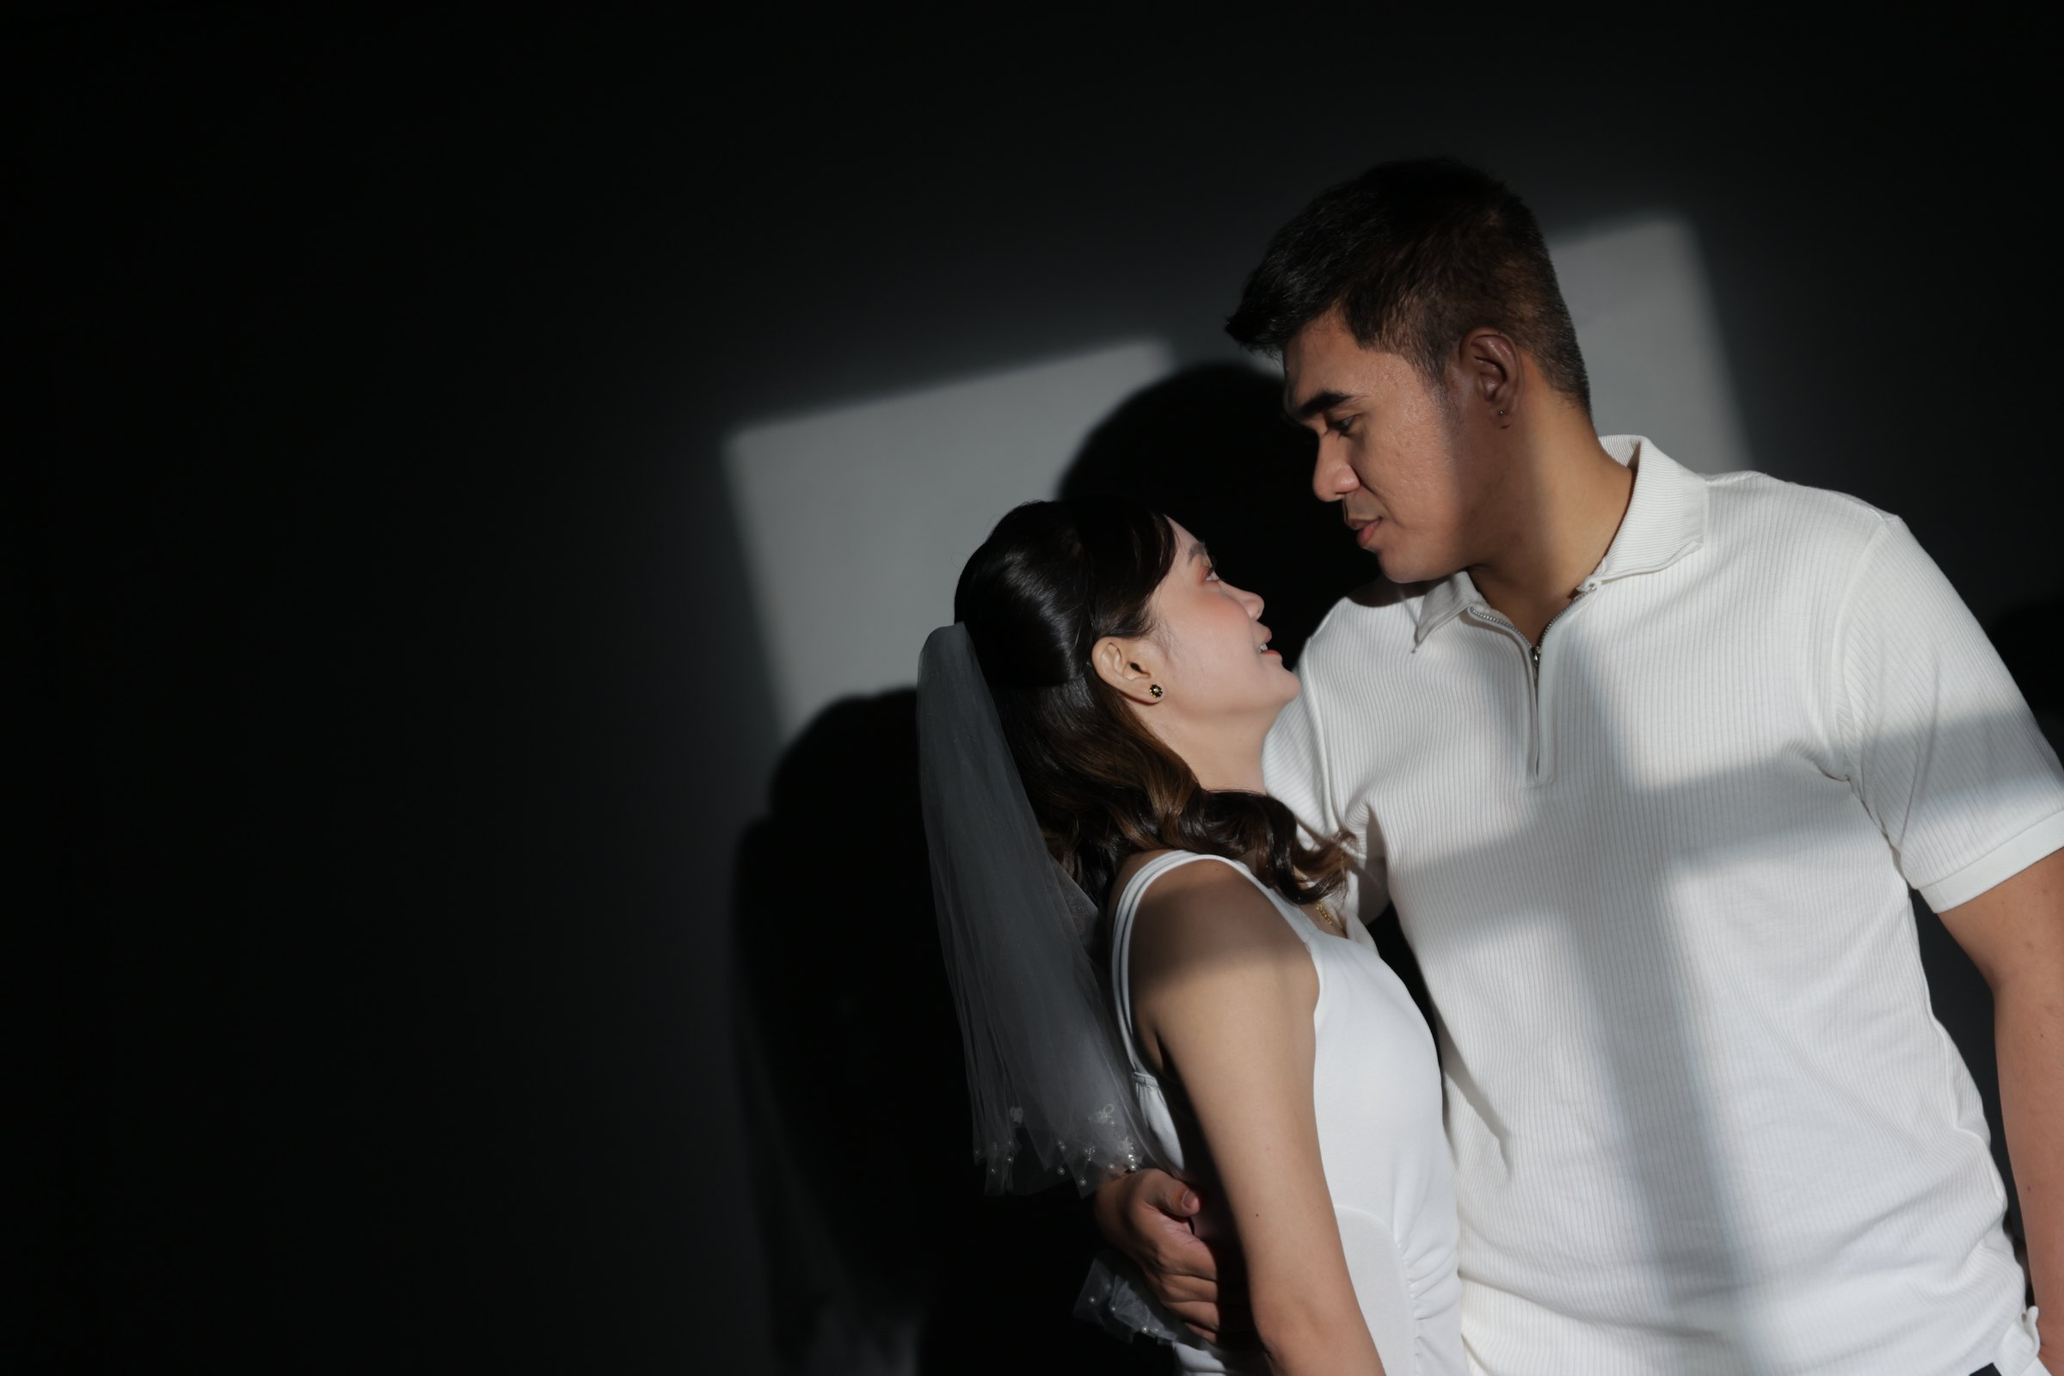
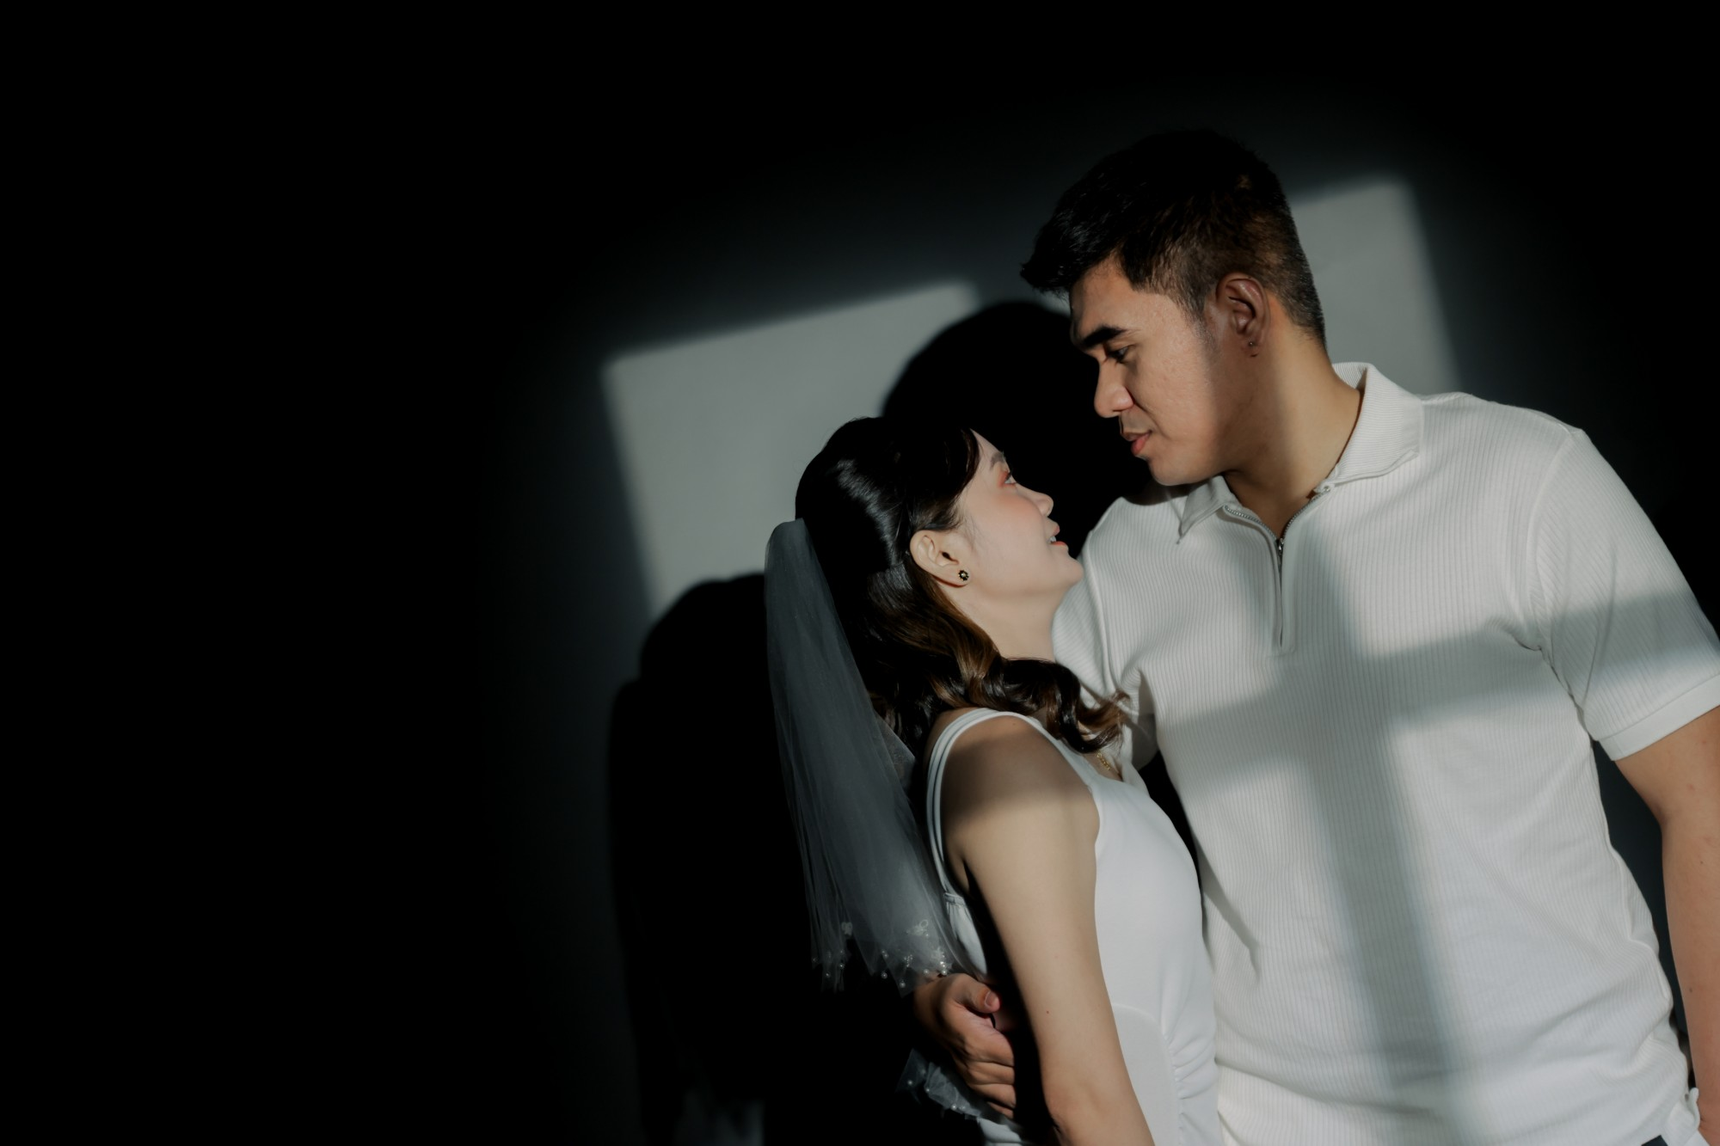
Add pre-wedding gallery, update hero, and sync invitation details
- Add 13 pre-wedding still photos to gallery section (3-column masonry)
- Replace hero.jpg with final edited couple photo
- Update principal sponsors: Fernando T. Concepcion & Adelaida L. Del Mundo
  replace Jap/Adele Concepcion; Fleurdeliza Dones replaces Liezel Dones;
  add Mrs. Cynthia Concepcion Naoe as 13th sponsor
- Update bridesmaids: Christine Lunzaga → Christine Lunzaga Gonzales
- Update ceremony time throughout: 2:30 PM → 3:30 PM
  (running order, ceremony section, RSVP ticket, FAQ, calendar link, iso timestamp)
- Update RSVP deadline: November 30 → November 28, 2026

diff --git a/index.html b/index.html
@@ -216,7 +216,7 @@
   <section id="date" data-c style="position:relative;overflow:hidden;padding:clamp(90px,14vw,170px) clamp(20px,5vw,72px);background:#070102">
     <div aria-hidden="true" style="position:absolute;left:0;top:50%;white-space:nowrap;font-family:'Bodoni Moda',serif;font-style:italic;font-size:clamp(160px,30vw,460px);line-height:1;color:transparent;-webkit-text-stroke:1px rgba(192,130,144,0.22);transform:translate3d(calc(var(--c,0) * 34vw - 10vw),-50%,0);pointer-events:none">09.01.27</div>
     <div style="position:relative;max-width:1200px;margin:0 auto">
-      <p style="margin:0 0 20px;font-size:11px;letter-spacing:0.4em;text-transform:uppercase;color:#C08290">Opening night · Barasoain Church · 2:30 PM</p>
+      <p style="margin:0 0 20px;font-size:11px;letter-spacing:0.4em;text-transform:uppercase;color:#C08290">Opening night · Barasoain Church · 3:30 PM</p>
       <h2 style="margin:0;max-width:14ch;font-family:'Bodoni Moda',serif;font-weight:400;font-size:clamp(40px,6.4vw,96px);line-height:0.98">Until we say <span style="font-style:italic;color:#E5B7C2">I do</span></h2>
       <div id="count-grid" style="margin-top:clamp(44px,6vw,80px);display:grid;grid-template-columns:repeat(4,minmax(0,1fr));border-top:2px solid rgba(246,237,233,0.85)">
         <sc-for list="{{ count }}" as="c" hint-placeholder-count="4">
@@ -227,7 +227,7 @@
         </sc-for>
       </div>
       <div style="margin-top:clamp(36px,5vw,56px);display:flex;flex-wrap:wrap;gap:14px">
-        <a href="https://calendar.google.com/calendar/render?action=TEMPLATE&amp;text=Carlo+%26+Alexandra+%E2%80%94+Wedding&amp;dates=20270109T063000Z/20270109T150000Z&amp;location=Barasoain+Church,+Malolos,+Bulacan" target="_blank" rel="noopener" style="display:flex;align-items:center;gap:18px;height:52px;padding:0 24px;border:1px solid rgba(246,237,233,0.5);color:#F6EDE9;font-size:11px;letter-spacing:0.28em;text-transform:uppercase;transition:background .35s ease,color .35s ease" style-hover="background:#F6EDE9;color:#0E0305">Add to calendar <span aria-hidden="true">→</span></a>
+        <a href="https://calendar.google.com/calendar/render?action=TEMPLATE&amp;text=Carlo+%26+Alexandra+%E2%80%94+Wedding&amp;dates=20270109T073000Z/20270109T140000Z&amp;location=Barasoain+Church,+Malolos,+Bulacan" target="_blank" rel="noopener" style="display:flex;align-items:center;gap:18px;height:52px;padding:0 24px;border:1px solid rgba(246,237,233,0.5);color:#F6EDE9;font-size:11px;letter-spacing:0.28em;text-transform:uppercase;transition:background .35s ease,color .35s ease" style-hover="background:#F6EDE9;color:#0E0305">Add to calendar <span aria-hidden="true">→</span></a>
       </div>
     </div>
   </section>
@@ -281,18 +281,23 @@
       </div>
       <div style="display:grid;grid-template-columns:repeat(3,minmax(0,1fr));gap:clamp(8px,2vw,28px);align-items:start">
         <div style="display:grid;gap:clamp(8px,2vw,28px);transform:translate3d(0,calc(var(--c,0) * 120px),0)">
-          <div data-unmask style="position:relative;aspect-ratio:3/4;overflow:hidden;clip-path:inset(calc((1 - var(--q,0)) * 100%) 0 0 0)"><div style="position:absolute;inset:0;transform:scale(calc(1.3 - var(--q,0) * 0.3))"><image-slot id="c-still-1" shape="rect" fit="cover" placeholder="Still 1"></image-slot></div></div>
-          <div data-unmask style="position:relative;aspect-ratio:4/5;overflow:hidden;clip-path:inset(calc((1 - var(--q,0)) * 100%) 0 0 0)"><div style="position:absolute;inset:0;transform:scale(calc(1.3 - var(--q,0) * 0.3))"><image-slot id="c-still-2" shape="rect" fit="cover" placeholder="Still 2"></image-slot></div></div>
-          <div data-unmask style="position:relative;aspect-ratio:1/1;overflow:hidden;clip-path:inset(calc((1 - var(--q,0)) * 100%) 0 0 0)"><div style="position:absolute;inset:0;transform:scale(calc(1.3 - var(--q,0) * 0.3))"><image-slot id="c-still-3" shape="rect" fit="cover" placeholder="Still 3"></image-slot></div></div>
+          <div data-unmask style="position:relative;aspect-ratio:3/4;overflow:hidden;clip-path:inset(calc((1 - var(--q,0)) * 100%) 0 0 0)"><div style="position:absolute;inset:0;transform:scale(calc(1.3 - var(--q,0) * 0.3))"><image-slot id="c-still-1" shape="rect" fit="cover" placeholder="Still 1" src="assets/still-01.jpg"></image-slot></div></div>
+          <div data-unmask style="position:relative;aspect-ratio:2/3;overflow:hidden;clip-path:inset(calc((1 - var(--q,0)) * 100%) 0 0 0)"><div style="position:absolute;inset:0;transform:scale(calc(1.3 - var(--q,0) * 0.3))"><image-slot id="c-still-2" shape="rect" fit="cover" placeholder="Still 2" src="assets/still-04.jpg"></image-slot></div></div>
+          <div data-unmask style="position:relative;aspect-ratio:4/5;overflow:hidden;clip-path:inset(calc((1 - var(--q,0)) * 100%) 0 0 0)"><div style="position:absolute;inset:0;transform:scale(calc(1.3 - var(--q,0) * 0.3))"><image-slot id="c-still-3" shape="rect" fit="cover" placeholder="Still 3" src="assets/still-07.jpg"></image-slot></div></div>
+          <div data-unmask style="position:relative;aspect-ratio:3/4;overflow:hidden;clip-path:inset(calc((1 - var(--q,0)) * 100%) 0 0 0)"><div style="position:absolute;inset:0;transform:scale(calc(1.3 - var(--q,0) * 0.3))"><image-slot id="c-still-4" shape="rect" fit="cover" placeholder="Still 4" src="assets/still-10.jpg"></image-slot></div></div>
+          <div data-unmask style="position:relative;aspect-ratio:1/1;overflow:hidden;clip-path:inset(calc((1 - var(--q,0)) * 100%) 0 0 0)"><div style="position:absolute;inset:0;transform:scale(calc(1.3 - var(--q,0) * 0.3))"><image-slot id="c-still-5" shape="rect" fit="cover" placeholder="Still 5" src="assets/still-13.jpg"></image-slot></div></div>
         </div>
         <div style="display:grid;gap:clamp(8px,2vw,28px);margin-top:clamp(60px,12vw,180px);transform:translate3d(0,calc(var(--c,0) * -160px),0)">
-          <div data-unmask style="position:relative;aspect-ratio:2/3;overflow:hidden;clip-path:inset(calc((1 - var(--q,0)) * 100%) 0 0 0)"><div style="position:absolute;inset:0;transform:scale(calc(1.3 - var(--q,0) * 0.3))"><image-slot id="c-still-4" shape="rect" fit="cover" placeholder="Still 4"></image-slot></div></div>
-          <div data-unmask style="position:relative;aspect-ratio:3/4;overflow:hidden;clip-path:inset(calc((1 - var(--q,0)) * 100%) 0 0 0)"><div style="position:absolute;inset:0;transform:scale(calc(1.3 - var(--q,0) * 0.3))"><image-slot id="c-still-5" shape="rect" fit="cover" placeholder="Still 5"></image-slot></div></div>
+          <div data-unmask style="position:relative;aspect-ratio:4/5;overflow:hidden;clip-path:inset(calc((1 - var(--q,0)) * 100%) 0 0 0)"><div style="position:absolute;inset:0;transform:scale(calc(1.3 - var(--q,0) * 0.3))"><image-slot id="c-still-6" shape="rect" fit="cover" placeholder="Still 6" src="assets/still-02.jpg"></image-slot></div></div>
+          <div data-unmask style="position:relative;aspect-ratio:3/4;overflow:hidden;clip-path:inset(calc((1 - var(--q,0)) * 100%) 0 0 0)"><div style="position:absolute;inset:0;transform:scale(calc(1.3 - var(--q,0) * 0.3))"><image-slot id="c-still-7" shape="rect" fit="cover" placeholder="Still 7" src="assets/still-05.jpg"></image-slot></div></div>
+          <div data-unmask style="position:relative;aspect-ratio:1/1;overflow:hidden;clip-path:inset(calc((1 - var(--q,0)) * 100%) 0 0 0)"><div style="position:absolute;inset:0;transform:scale(calc(1.3 - var(--q,0) * 0.3))"><image-slot id="c-still-8" shape="rect" fit="cover" placeholder="Still 8" src="assets/still-08.jpg"></image-slot></div></div>
+          <div data-unmask style="position:relative;aspect-ratio:4/5;overflow:hidden;clip-path:inset(calc((1 - var(--q,0)) * 100%) 0 0 0)"><div style="position:absolute;inset:0;transform:scale(calc(1.3 - var(--q,0) * 0.3))"><image-slot id="c-still-9" shape="rect" fit="cover" placeholder="Still 9" src="assets/still-11.jpg"></image-slot></div></div>
         </div>
         <div style="display:grid;gap:clamp(8px,2vw,28px);margin-top:clamp(20px,5vw,70px);transform:translate3d(0,calc(var(--c,0) * 60px),0)">
-          <div data-unmask style="position:relative;aspect-ratio:4/5;overflow:hidden;clip-path:inset(calc((1 - var(--q,0)) * 100%) 0 0 0)"><div style="position:absolute;inset:0;transform:scale(calc(1.3 - var(--q,0) * 0.3))"><image-slot id="c-still-6" shape="rect" fit="cover" placeholder="Still 6"></image-slot></div></div>
-          <div data-unmask style="position:relative;aspect-ratio:1/1;overflow:hidden;clip-path:inset(calc((1 - var(--q,0)) * 100%) 0 0 0)"><div style="position:absolute;inset:0;transform:scale(calc(1.3 - var(--q,0) * 0.3))"><image-slot id="c-still-7" shape="rect" fit="cover" placeholder="Still 7"></image-slot></div></div>
-          <div data-unmask style="position:relative;aspect-ratio:3/4;overflow:hidden;clip-path:inset(calc((1 - var(--q,0)) * 100%) 0 0 0)"><div style="position:absolute;inset:0;transform:scale(calc(1.3 - var(--q,0) * 0.3))"><image-slot id="c-still-8" shape="rect" fit="cover" placeholder="Still 8"></image-slot></div></div>
+          <div data-unmask style="position:relative;aspect-ratio:3/4;overflow:hidden;clip-path:inset(calc((1 - var(--q,0)) * 100%) 0 0 0)"><div style="position:absolute;inset:0;transform:scale(calc(1.3 - var(--q,0) * 0.3))"><image-slot id="c-still-10" shape="rect" fit="cover" placeholder="Still 10" src="assets/still-03.jpg"></image-slot></div></div>
+          <div data-unmask style="position:relative;aspect-ratio:1/1;overflow:hidden;clip-path:inset(calc((1 - var(--q,0)) * 100%) 0 0 0)"><div style="position:absolute;inset:0;transform:scale(calc(1.3 - var(--q,0) * 0.3))"><image-slot id="c-still-11" shape="rect" fit="cover" placeholder="Still 11" src="assets/still-06.jpg"></image-slot></div></div>
+          <div data-unmask style="position:relative;aspect-ratio:4/5;overflow:hidden;clip-path:inset(calc((1 - var(--q,0)) * 100%) 0 0 0)"><div style="position:absolute;inset:0;transform:scale(calc(1.3 - var(--q,0) * 0.3))"><image-slot id="c-still-12" shape="rect" fit="cover" placeholder="Still 12" src="assets/still-09.jpg"></image-slot></div></div>
+          <div data-unmask style="position:relative;aspect-ratio:3/4;overflow:hidden;clip-path:inset(calc((1 - var(--q,0)) * 100%) 0 0 0)"><div style="position:absolute;inset:0;transform:scale(calc(1.3 - var(--q,0) * 0.3))"><image-slot id="c-still-13" shape="rect" fit="cover" placeholder="Still 13" src="assets/still-12.jpg"></image-slot></div></div>
         </div>
       </div>
     </div>
@@ -306,12 +311,12 @@
       </div>
       <div aria-hidden="true" style="position:absolute;inset:0;display:flex;align-items:center;justify-content:space-between;padding:0 clamp(20px,5vw,72px);pointer-events:none;opacity:calc(1 - var(--p,0) * 3.2)">
         <span style="font-family:'Bodoni Moda',serif;font-size:clamp(40px,7vw,110px);line-height:1">Scene I</span>
-        <span style="font-family:'Bodoni Moda',serif;font-style:italic;font-size:clamp(40px,7vw,110px);line-height:1;color:#E5B7C2">2:30</span>
+        <span style="font-family:'Bodoni Moda',serif;font-style:italic;font-size:clamp(40px,7vw,110px);line-height:1;color:#E5B7C2">3:30</span>
       </div>
       <div style="position:absolute;left:0;right:0;bottom:0;padding:0 clamp(20px,5vw,72px) clamp(100px,14vh,140px);opacity:calc((var(--p,0) - 0.5) * 4);transform:translate3d(0,calc((1 - min(1,max(0,(var(--p,0) - 0.5) * 3))) * 40px),0)">
-        <p style="margin:0 0 16px;font-size:11px;letter-spacing:0.4em;text-transform:uppercase;color:#E5B7C2">Sc. 04 — The ceremony · 2:30 PM</p>
+        <p style="margin:0 0 16px;font-size:11px;letter-spacing:0.4em;text-transform:uppercase;color:#E5B7C2">Sc. 04 — The ceremony · 3:30 PM</p>
         <h2 style="margin:0;font-family:'Bodoni Moda',serif;font-weight:400;font-size:clamp(46px,8vw,124px);line-height:0.94">Barasoain<br><span style="font-style:italic">Church</span></h2>
-        <p style="margin:20px 0 0;max-width:44ch;font-size:16px;line-height:1.75;font-weight:300;color:rgba(246,237,233,0.86);text-wrap:pretty">Our Lady of Mount Carmel Parish, Paseo del Congreso, Malolos. Please be seated by 2:00 PM — the processional begins promptly at half past two.</p>
+        <p style="margin:20px 0 0;max-width:44ch;font-size:16px;line-height:1.75;font-weight:300;color:rgba(246,237,233,0.86);text-wrap:pretty">Our Lady of Mount Carmel Parish, Paseo del Congreso, Malolos. Please be seated by 3:00 PM — the processional begins promptly at half past three.</p>
         <a href="https://maps.app.goo.gl/sjGYeUagkC9sWRh8A" target="_blank" rel="noopener" style="margin-top:24px;display:inline-flex;align-items:center;gap:16px;height:48px;padding:0 22px;border:1px solid rgba(246,237,233,0.6);color:#F6EDE9;font-size:11px;letter-spacing:0.26em;text-transform:uppercase;transition:background .35s ease,color .35s ease" style-hover="background:#F6EDE9;color:#0E0305">Directions <span aria-hidden="true">→</span></a>
       </div>
     </div>
@@ -497,7 +502,7 @@
           <div id="rsvpTicket" style="flex:1;padding:8px 0"></div>
           <div style="display:grid;gap:12px;font-size:12px;letter-spacing:0.2em;text-transform:uppercase">
             <div style="display:flex;justify-content:space-between;gap:10px;border-top:1px solid rgba(42,0,8,0.2);padding-top:10px"><span style="color:#8C2338">Date</span><span>09 · 01 · 27</span></div>
-            <div style="display:flex;justify-content:space-between;gap:10px;border-top:1px solid rgba(42,0,8,0.2);padding-top:10px"><span style="color:#8C2338">Doors</span><span>2:00 PM</span></div>
+            <div style="display:flex;justify-content:space-between;gap:10px;border-top:1px solid rgba(42,0,8,0.2);padding-top:10px"><span style="color:#8C2338">Doors</span><span>3:00 PM</span></div>
             <div style="display:flex;justify-content:space-between;gap:10px;border-top:1px solid rgba(42,0,8,0.2);padding-top:10px"><span style="color:#8C2338">Venue</span><span>Barasoain</span></div>
           </div>
         </div>
@@ -532,15 +537,16 @@ class Component extends DCLogic {
     ],
     principal: [
       ["Mr. Orlando Dela Paz", "Mrs. Elizabeth Dela Paz"], ["Engr. Jesus Jessie Concepcion", "Engr. Aida Concepcion"], ["Mr. Ruben Lucena", "Mrs. Zenaida Lucena"],
-      ["Mr. Jap Concepcion", "Mrs. Adele Concepcion"], ["Mr. Lazaro Santos Jr.", "Mrs. Macrina Santos"], ["Mr. Arthur Cabantug", "Mrs. Cristy Cabantug"],
-      ["Engr. Joey Guerrero", "Mrs. Alice Guerrero"], ["Mr. Ariel Dones", "Mrs. Liezel Dones"], ["Mr. Enrique Balano", "Mrs. Elizabeth Balano"],
+      ["Mr. Fernando T. Concepcion", "Mrs. Adelaida L. Del Mundo"], ["Mr. Lazaro Santos Jr.", "Mrs. Macrina Santos"], ["Mr. Arthur Cabantug", "Mrs. Cristy Cabantug"],
+      ["Engr. Joey Guerrero", "Mrs. Alice Guerrero"], ["Mr. Ariel Dones", "Mrs. Fleurdeliza Dones"], ["Mr. Enrique Balano", "Mrs. Elizabeth Balano"],
       ["Mr. Resorte Medina Jr.", "Mrs. Virgina Medina"], ["Mr. Arlie Calera Arillo", "Mrs. Edwina Nolasco"], ["Mr. Eduardo Rongavilla", "Mrs. Imelda Rongavilla"],
+      ["", "Mrs. Cynthia Concepcion Naoe"],
     ],
     groups: [
       { role: "Best Man", names: ["Benedick Bautista", "Sean Ashley Ortega"] },
       { role: "Maid of Honour", names: ["Claudine Villa", "Keynan Sheen Malaran"] },
       { role: "Groomsmen", names: ["Karl Anthony Sulit", "Justin Evangelista", "Zian Paulo Concepcion", "Richard Martin Santos", "Bobby Bryan Jallores", "Francis Daniele Decano", "John Paul Favoreal"] },
-      { role: "Bridesmaids", names: ["April Hernandez", "Jenny Cristel Estrella", "Mika Hara", "Joanna Rose Estrella", "Christine Lunzaga", "Princess Orveen Calderon", "Micah Morta"] },
+      { role: "Bridesmaids", names: ["April Hernandez", "Jenny Cristel Estrella", "Mika Hara", "Joanna Rose Estrella", "Christine Lunzaga Gonzales", "Princess Orveen Calderon", "Micah Morta"] },
     ],
     secondary: [
       { role: "Flower Girls", names: "Freya Jane Dones · Ryelin Crishelle Gonzales · Caira Yzabelle Gonzales · Aryanna Caitleen Gonzales" },
@@ -552,9 +558,9 @@ class Component extends DCLogic {
       { role: "Arras Bearer", names: "Angelus Ichiro Mendoza" },
     ],
     timeline: [
-      { time: "1:45 PM", label: "Guests arrive", note: "Barasoain Church — ushers will seat you" },
-      { time: "2:30 PM", label: "The ceremony", note: "Processional, rites and vows" },
-      { time: "3:45 PM", label: "Photographs", note: "Family and entourage at the church" },
+      { time: "3:00 PM", label: "Guests arrive", note: "Barasoain Church — ushers will seat you" },
+      { time: "3:30 PM", label: "The ceremony", note: "Processional, rites and vows" },
+      { time: "4:45 PM", label: "Photographs", note: "Family and entourage at the church" },
       { time: "5:30 PM", label: "Reception opens", note: "Placida Pavillion — cocktails" },
       { time: "6:15 PM", label: "Dinner & programme", note: "Toasts from the principal sponsors" },
       { time: "8:30 PM", label: "First dance", note: "Then the floor is yours" },
@@ -575,15 +581,15 @@ class Component extends DCLogic {
       { q: "Can I bring my children?", a: "We adore your little ones, but this is an adults-only celebration, with the exception of the children in our entourage. Please arrange care for the evening so you can enjoy it fully." },
       { q: "Can I bring a plus one?", a: "Only if your invitation and your RSVP entry say so. Our guest list is at capacity, so a plus one can only be confirmed through the name on your invitation." },
       { q: "Can I bring someone who wasn't invited?", a: "Respectfully, no. Every seat is assigned by name, and guests who are not on the list cannot be accommodated at the church or the reception." },
-      { q: "When should I arrive?", a: "Please be at Barasoain Church by 2:00 PM. The reception at Placida Pavillion opens at 5:30 PM." },
+      { q: "When should I arrive?", a: "Please be at Barasoain Church by 3:00 PM. The reception at Placida Pavillion opens at 5:30 PM." },
       { q: "Is there a gift registry?", a: "No registry. If you would like to give something, we would honestly prefer a cash gift over a physical one — it goes towards our first home. A card box will be waiting near the entrance at the reception." },
       { q: "Can I take photos?", a: "Yes, after the ceremony. We are keeping the processional and the vows unplugged so everyone sees it with their own eyes. Please share anything you take with us afterwards." },
-      { q: "What if my plans change?", a: "Let us know by November 30, 2026 so we can adjust the seating. After that date we can no longer make changes with the venue." },
+      { q: "What if my plans change?", a: "Let us know by November 28, 2026 so we can adjust the seating. After that date we can no longer make changes with the venue." },
     ],
     steps: ["Type your full name as printed on the invitation", "Confirm whether you'll attend", "Add your plus one only if your entry allows it"],
-    deadline: "30 November 2026",
+    deadline: "28 November 2026",
     note: "* Names marked with an asterisk are still to be confirmed.",
-    iso: "2027-01-09T14:30:00+08:00",
+    iso: "2027-01-09T15:30:00+08:00",
   };
 
   componentDidMount() {
